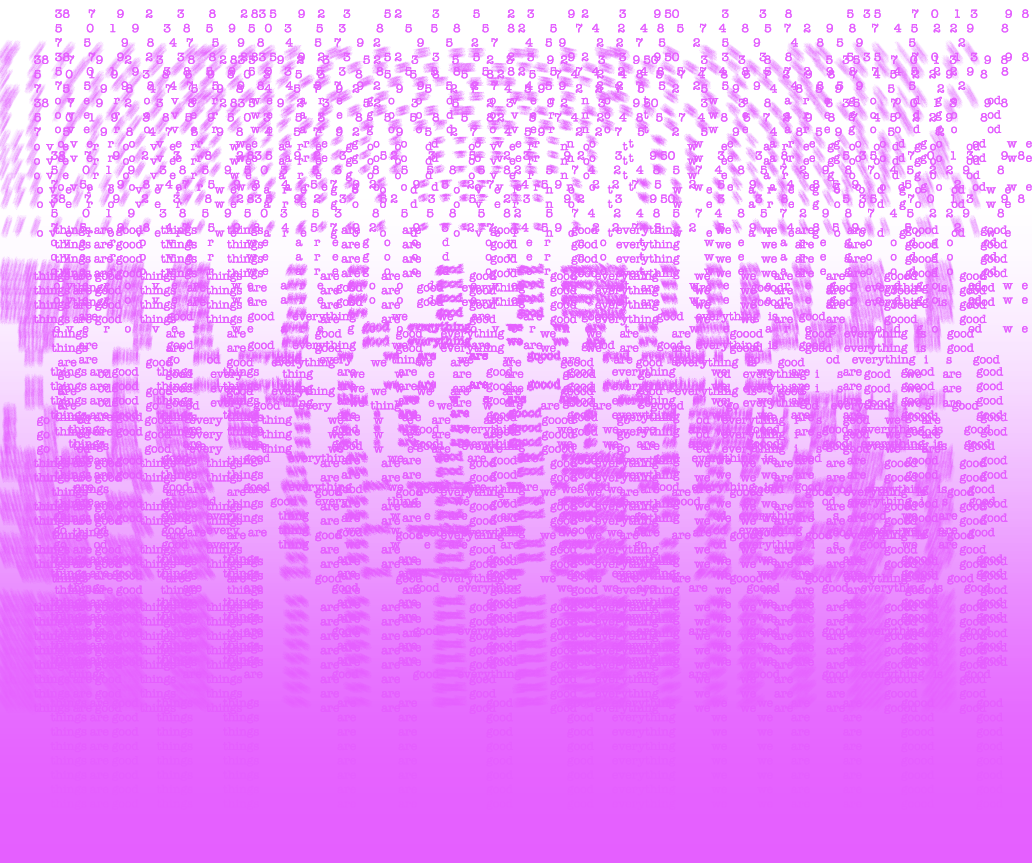
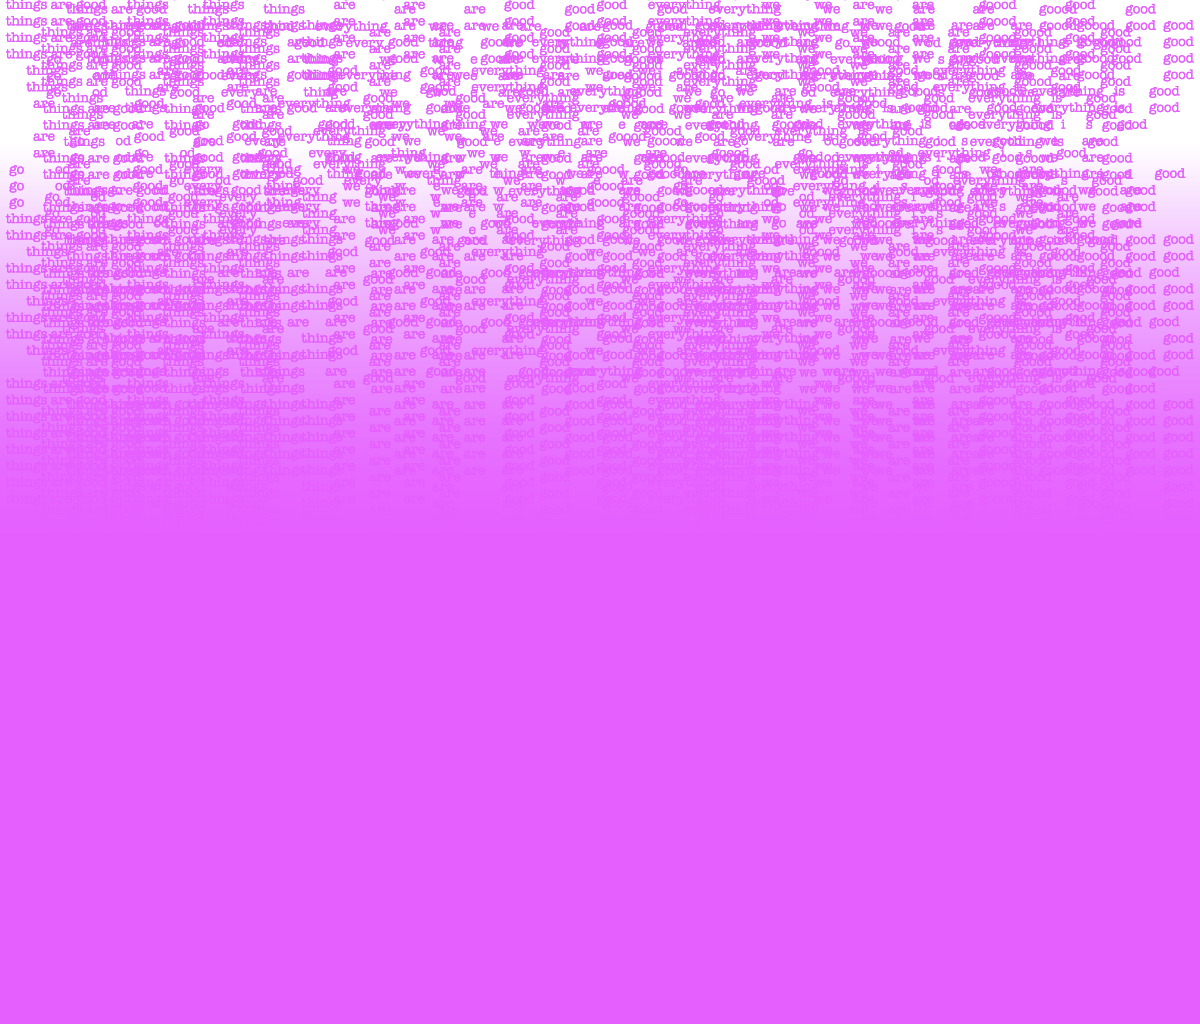
weird signals upload

diff --git a/weird-signals/index.html b/weird-signals/index.html
@@ -157,39 +157,39 @@ Analysis: Perhaps the omission of the apostrophe in the contraction “Im” sug
   <!--Editable effect --> 
    
   <div class="title title-1"contenteditable="true">
-      sjfhksajhfksj ahfkjsahd kjsahdkajhdkjsahd ksjhfjbc  mwwisajfhksywioaudoi ukasjdahksjf
+      hey! yeah it has been. I am doing alright, how about yourself?
   </div>
 
   <div class="title title-2"contenteditable="true">
-      wyiuwyeiuwemnsmsndwdsdcauydiasudoa wyaiufhsakjd owiudaikjda audiasuhdak fgxbzmbk
+      I really do appreciate that. I know things have been different so would you be free to catch up tomorrow?
   </div>
 
   <div class="title title-3"contenteditable="true">
-      wiyruwajnd, smd nzcu aydiaudsoiau soiaufisfasflaskfadladj sdjsakdjsakdjsakmsasjdklaskfjkjdhfuyriuwyreutmnbfmdsuweuwosai wudksjdsjzcnxbvhfgdhdfwafa 
+      of course. I just thought it would be nice to catch up given everything that has been going on reccently. And we havent seen eachother since and messaging isnt the same. 
   </div>
 
   <div class="title title-4"contenteditable="true">
-      skfhksjdksadjiueiwajl, skjahsiud
+      So let me know if you will be free.
   </div>
 
   <div class="title title-5"contenteditable="true">
-      uyruetrtuiwwoeuqwoi
+      hey, just havent heard from you..
   </div>
 
   <div class="title title-6"contenteditable="true">
-      iuytuieyturtemdnf asdyiwuyrihasjnc asjfhiasuyrfiakcs
+      hey, it's been a while. How are you? 
   </div>
 
   <div class="title title-7"contenteditable="true">
-      ytwydghsfbndbfqowiuenscn asdaskjd
+      I'm gald to hear that. I'm doing alright myself. 
   </div>
 
   <div class="title title-8"contenteditable="true">
-      ajhfiwyuriueyriuedh
+      I just wanted to check in with you 
   </div>
 
   <div class="title title-9"contenteditable="true">
-      wuryueyturytur wuydiusy sc kjkj, kjdhfjsdhf
+      I am actually not too sure whether I will have time tomorrow
   </div>
 
   <!-- End Editable effect--> 

diff --git a/index.html b/index.html
@@ -55,9 +55,9 @@ body {
       
  <a href="chants/chant.html">Workshop 1: chants</a>
   <br>
-  <a href="">Project 1: weird signals</a>
+  <a href="weird-signals/index.html">Project 1: weird signals</a>
   <br>
-  <a href="">Project 2: Unknown</a>
+  <a href="temporal-loops/index.html">Project 2: temporal loops</a>
   <br>
   <a href="">Project 3: Unknown</a>
   <br>

diff --git a/weird-signals/assets/css/main.css b/weird-signals/assets/css/main.css
@@ -119,7 +119,7 @@ body {
   width:100%;
   position:absolute;
   object-position: center;
-  top:3650px;
+  top:3600px;
   left:-380px;
   
 }
